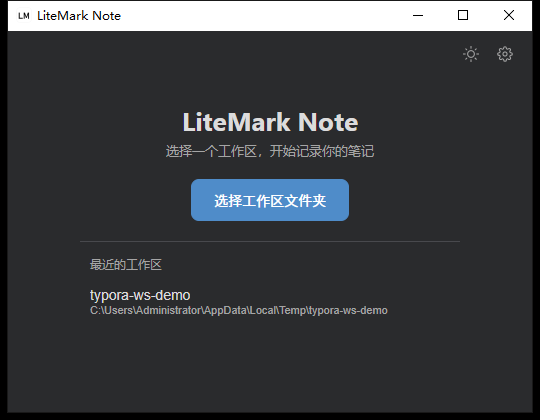
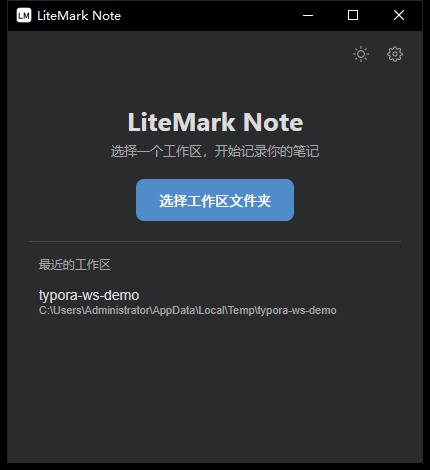
发布 v0.22.10：修复托盘唤回后欢迎页仍为大窗口
- 欢迎页窗口尺寸调整为 430×470，进入工作区后放大到 900×640
- 关闭到后台再双击托盘唤回时，先显示窗口并在 Go 侧恢复欢迎页尺寸，前端再兜底设置
- 更新 README 欢迎页截图

diff --git a/frontend/src/main.js b/frontend/src/main.js
@@ -1117,8 +1117,8 @@ function jumpToHeading(item) {
 
 // ---------- 工作区 ----------
 // 选择工作区时窗口较小，进入工作区后放大
-const PICKER_WIDTH = 540
-const PICKER_HEIGHT = 420
+const PICKER_WIDTH = 430
+const PICKER_HEIGHT = 470
 const EDITOR_WIDTH = 900
 const EDITOR_HEIGHT = 640
 
@@ -1886,8 +1886,13 @@ function resetToWorkspacePicker() {
 // 窗口被唤出（托盘/再次双击 exe）：
 // 关闭到后台的重开 → 工作区选择页；尚未进入编辑状态 → 补显选择页
 window.runtime?.EventsOn?.('window-shown', (reset) => {
-  if (reset && docOpen) resetToWorkspacePicker()
-  else if (!docOpen) showWelcome()
+  if (reset && docOpen) {
+    resetToWorkspacePicker()
+  } else if (!docOpen) {
+    showWelcome()
+    // 从后台唤回时，欢迎页始终恢复为小窗口
+    wails()?.SetWindowSize(PICKER_WIDTH, PICKER_HEIGHT)
+  }
 })
 
 // ---------- 初始化 ----------

diff --git a/main.go b/main.go
@@ -40,6 +40,12 @@ var nativeTheme = &windows.ThemeSettings{
 	LightModeBorderInactive:    0x00E5E5E5,
 }
 
+// 欢迎页（工作区选择页）窗口尺寸，与前端 PICKER_WIDTH/HEIGHT 保持一致
+const (
+	pickerWindowWidth  = 430
+	pickerWindowHeight = 470
+)
+
 // viewerMode 图片查看器进程模式（--image-viewer 启动时为 true）
 var viewerMode = false
 
@@ -198,8 +204,8 @@ func main() {
 
 	err = wails.Run(&options.App{
 		Title:  "LiteMark Note",
-		Width:  540,
-		Height: 420,
+		Width:  pickerWindowWidth,
+		Height: pickerWindowHeight,
 		DragAndDrop: &options.DragAndDrop{
 			EnableFileDrop:     true,
 			DisableWebViewDrop: true, // 文件拖放统一由 wails 事件处理，避免 webview 直接打开

diff --git a/app.go b/app.go
@@ -80,8 +80,14 @@ func (a *App) ConfirmClose(action string, remember bool) {
 func (a *App) showMainWindow() {
 	reset := a.resetOnShow
 	a.resetOnShow = false
-	runtime.EventsEmit(a.ctx, "window-shown", reset)
+	// 先显示窗口再通知前端，前端收到事件后才能正确调整窗口尺寸
 	runtime.WindowShow(a.ctx)
+	// 关闭到后台后重开的一定是欢迎页，统一在 Go 侧恢复小窗口
+	if reset {
+		runtime.WindowSetSize(a.ctx, pickerWindowWidth, pickerWindowHeight)
+		runtime.WindowCenter(a.ctx)
+	}
+	runtime.EventsEmit(a.ctx, "window-shown", reset)
 }
 
 // serveSingleInstance 单实例服务：接收第二实例的唤出窗口请求
